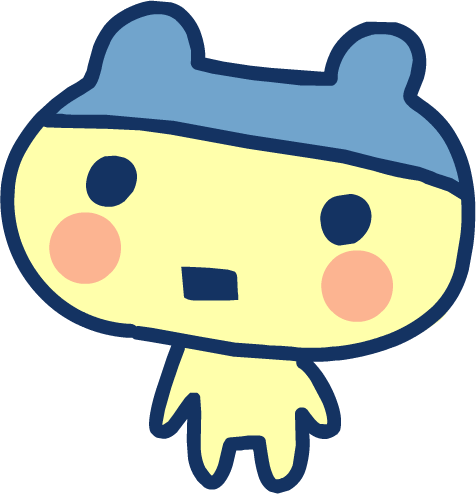
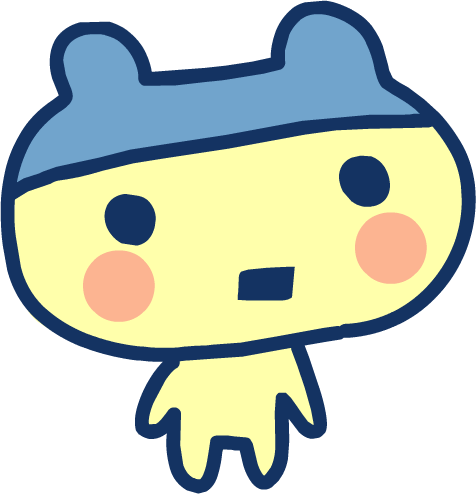
horizontally reflected image to better match animation

diff --git a/js/app.js b/js/app.js
@@ -25,6 +25,8 @@ const aging = () => {
         // Update age property on myTamagotchi object
         myTamagotchi.age = i
         
+
+        // Check age to evolve tamagotchi
         if(myTamagotchi.age === 12) {
             let babyPet = document.querySelector('.pet')
             babyPet.remove()
@@ -45,10 +47,7 @@ const aging = () => {
             let petContainer = document.querySelector('.petContainer')
             petContainer.append(finalEvolution)
             alert(`${myTamagotchi.name} has completed the final evolution.`)
-
         }
-
-
     }, 1000)
     
 }
@@ -93,6 +92,10 @@ const gettingHungry = (myTamagotchi) => {
         // Update hunger property in Tamagotchi object
         myTamagotchi.hunger++
         
+        // Check if hunger is at 10 
+        if(myTamagotchi.hunger === 10) {
+            
+        }
     }, 3000)
 }
 
@@ -115,6 +118,7 @@ const gettingBored =(myTamagotchi) => {
         myTamagotchi.boredom++
     }, 4000)
 }
+
 // INTERACTIONS WITH BUTTONS
 const feed = () => {
     // Decrement hunger by 1 everytime user feeds it
@@ -143,11 +147,6 @@ const play = () => {
     }
     boredom.innerHTML = `Boredom: ${myTamagotchi.boredom}`
 }
-
-// LET TAMAGOTCHI EVOLVE
-// const evolve = () => {
-//     if()
-// }
 
 // ---------------------------------------------------------------
 // EVENT LISTENERS
